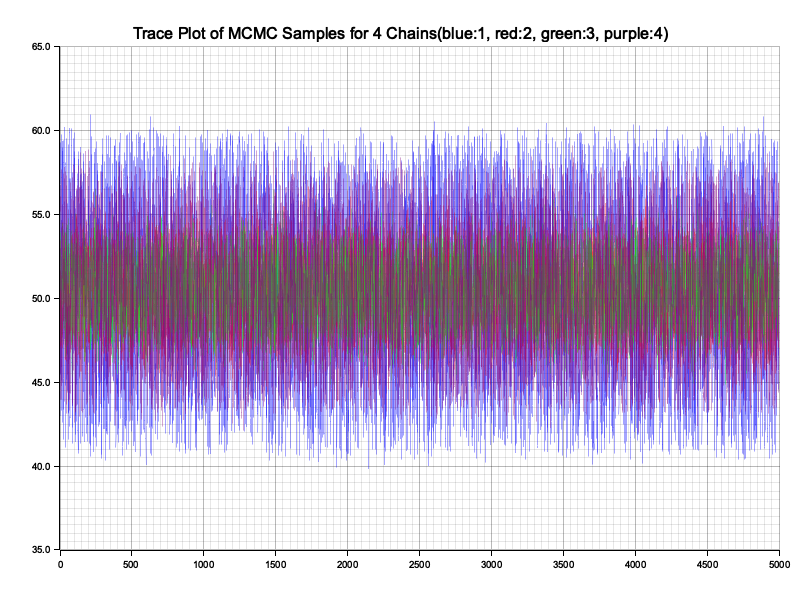
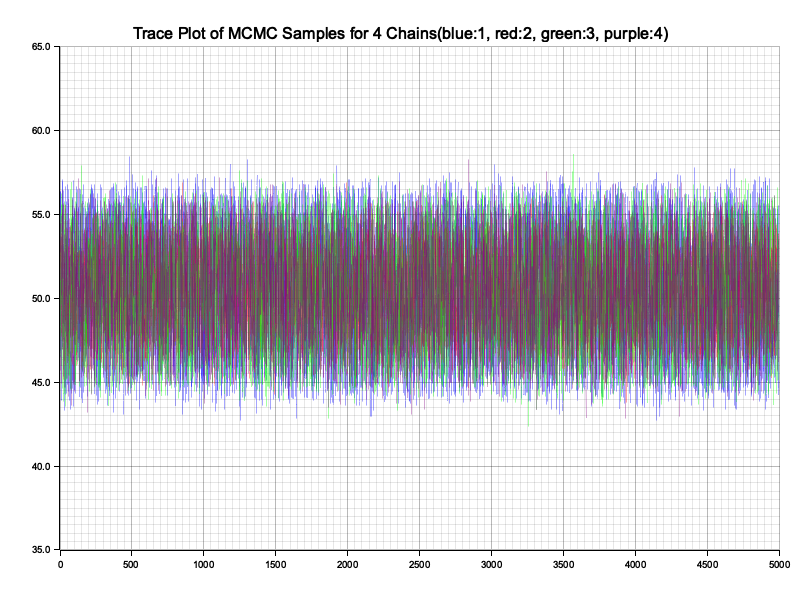
traceplotを関数化

diff --git a/bays_packages/src/modules/mcmc_visualizer.rs b/bays_packages/src/modules/mcmc_visualizer.rs
@@ -1,73 +1,38 @@
 use plotters::prelude::*;
 
-struct mcmc_results {
-    results: Vec<mcmc_result>,
-    chains: Vec<usize>
-}
+pub fn trace_plot(chains: &Vec<Vec<f64>>, x_min: usize, x_max: usize, y_min: f64, y_max: f64) -> Result<(), Box<dyn std::error::Error>> {
+    let root = BitMapBackend::new("./plots/bays_packages/trace_plot.png", (800, 600)).into_drawing_area();
+    root.fill(&WHITE)?;
 
-struct mcmc_result {
-    iter_num: Vec<usize>,
-    generated_samples: Vec<f64>
-}
+    let mut chart = ChartBuilder::on(&root)
+        .caption("Trace Plot of MCMC Samples for 4 Chains(blue:1, red:2, green:3, purple:4)", ("sans-serif", 20))
+        .margin(20)
+        .x_label_area_size(30)
+        .y_label_area_size(40)
+        .build_cartesian_2d(x_min..x_max, y_min..y_max)?;
 
-trait VisualizeSignleResult {
-    fn new(&self);
-    fn store(Vec<usize>: &iter_num, Vec<f64>: &generated_samples);
-}
-impl Visualize for VisualizeSignleResult {
-    fn new(&self) {
-        self.mcmc_results.generated_samples = Vec::new();
-        self.mcmc_results.iter_num = Vec::new();
-    }
-    fn store(Vec<usize>: &iter_num, Vec<f64>: &generated_samples) {
-        self.mcmc_results.generated_samples.push(&generated_samples);
-        self.mcmc_results.iter_num.push(&iter_num);
-    }
-}
+    chart.configure_mesh().draw()?;
 
-pub fn visualizer() {
-    mcmc_results{}
-}
-
-#[allow(dead_code)]
-impl Visualize for mcmc_results {
-    fn new(&self) {
-        self.results.iter().new();
-    }
-    fn store(usize: &iter_num, f64: &generated_sample){
-        self.store(&iter_num, &generated_sample);
+    // チェーンごとに異なる色でトレースプロットを描画
+    // let colors = [full_palette::BLUE, full_palette::RED, full_palette::GREEN, full_palette::PURPLE];
+    // チェーンごとの色を透明度付きで設定
+    let colors = [
+        RGBAColor(0, 0, 255, 0.2),    // 半透明の青
+        RGBAColor(255, 0, 0, 0.2),    // 半透明の赤
+        RGBAColor(0, 255, 0, 0.2),    // 半透明の緑
+        RGBAColor(128, 0, 128, 0.2),  // 半透明の紫
+    ];
+    for (i, chain) in chains.iter().enumerate() {
+        chart.draw_series(
+                LineSeries::new(
+                    chain.iter().enumerate().map(|(j, &value)| (j, value)),
+                    &colors[i],
+                )
+        )?;
     }
 
-    // fn traceplot(){
-    //     // 画像のサイズと出力ファイルを設定
-    //     let root = BitMapBackend::new("./plots/bays_packages/traceplot.png", (640, 480)).into_drawing_area();
-    //     root.fill(&WHITE)?;
-
-    //     // グラフエリアの設定
-    //     let mut chart = ChartBuilder::on(&root)
-    //         .caption("MCMC traceplit", ("sans-serif", 50).into_font())
-    //         .margin(20)
-    //         .x_label_area_size(30)
-    //         .y_label_area_size(30)
-    //         .build_cartesian_2d(0..6, 0..60)?;
-
-    //     chart.configure_mesh().draw()?;
-
-    //     // 1つ目のデータ系列をプロット
-    //     chart.draw_series(LineSeries::new(
-    //         x.iter().zip(y1.iter()).map(|(&x, &y)| (self., y)),
-    //         &BLUE,
-    //     ))?
-    //     .label("Series 1")
-    //     .legend(|(x, y)| PathElement::new([(x, y), (x + 20, y)], &BLUE));
-
-    //     // 2つ目のデータ系列をプロット
-    //     chart.draw_series(LineSeries::new(
-    //         x.iter().zip(y2.iter()).map(|(&x, &y)| (x, y)),
-    //         &RED,
-    //     ))?
-    //     .label("Series 2")
-    //     .legend(|(x, y)| PathElement::new([(x, y), (x + 20, y)], &RED));
-
-    // }
+    // 保存処理の完了
+    root.present()?;
+    println!("Trace plot saved as 'plots/bays_packages/trace_plot.png'");
+    Ok(())
 }

diff --git a/bays_packages/src/simple_mean_bulk.rs b/bays_packages/src/simple_mean_bulk.rs
@@ -2,11 +2,11 @@
 use crate::modules::utils::*;
 use crate::modules::mcmc_tools::*;
 use crate::modules::mcmc::*;
-// use crate::modules::mcmc_visualizer::*
+use crate::modules::mcmc_visualizer::*;
 
-use plotters::prelude::*;
 use rand_distr::{Distribution, Normal, Uniform};
 use prettytable::{Table, Row, Cell};
+
 
 // simple_mean_onlineのように逐次的にデータが入ってくるオンライン処理的な実装ではなく、stanで処理するときのようにバルクで処理する実装
 pub fn run() -> Result<(), Box<dyn std::error::Error>> {
@@ -82,6 +82,7 @@ pub fn run() -> Result<(), Box<dyn std::error::Error>> {
     // 例：平均日次売上金額が95%の確率で約60.12ドルから82.45ドルの間にある
     let (lower_bound, upper_bound) = credible_interval(&all_samples);
 
+    println!("-------------------------------");
     // 推定結果
     let mut table = Table::new();
     table.add_row(Row::new(vec![
@@ -109,7 +110,7 @@ pub fn run() -> Result<(), Box<dyn std::error::Error>> {
     // テーブルを表示
     table.printstd();
 
-//    println!("   95% Credible Interval: ({:.2}, {:.2})", lower_bound, upper_bound);
+    //    println!("   95% Credible Interval: ({:.2}, {:.2})", lower_bound, upper_bound);
 
     // println!("-------------------------------");
     // println!("# 推定結果");
@@ -120,38 +121,6 @@ pub fn run() -> Result<(), Box<dyn std::error::Error>> {
 
     // ------------------------------------------------------------------------------------------------
     // トレースプロットを生成してPNGに保存
-    let root = BitMapBackend::new("./plots/bays_packages/trace_plot.png", (800, 600)).into_drawing_area();
-    root.fill(&WHITE)?;
-
-    let mut chart = ChartBuilder::on(&root)
-        .caption("Trace Plot of MCMC Samples for 4 Chains(blue:1, red:2, green:3, purple:4)", ("sans-serif", 20))
-        .margin(20)
-        .x_label_area_size(30)
-        .y_label_area_size(40)
-        .build_cartesian_2d(0..((&iterations - &burn_in) / 10), 35.0..65.0)?;
-
-    chart.configure_mesh().draw()?;
-
-    // チェーンごとに異なる色でトレースプロットを描画
-    // let colors = [full_palette::BLUE, full_palette::RED, full_palette::GREEN, full_palette::PURPLE];
-    // チェーンごとの色を透明度付きで設定
-    let colors = [
-        RGBAColor(0, 0, 255, 0.2),    // 半透明の青
-        RGBAColor(255, 0, 0, 0.2),    // 半透明の赤
-        RGBAColor(0, 255, 0, 0.2),    // 半透明の緑
-        RGBAColor(128, 0, 128, 0.2),  // 半透明の紫
-    ];
-    for (i, chain) in chains.iter().enumerate() {
-        chart.draw_series(
-                LineSeries::new(
-                    chain.iter().enumerate().map(|(j, &value)| (j, value)),
-                    &colors[i],
-                )
-        )?;
-    }
-
-    // 保存処理の完了
-    root.present()?;
-    println!("Trace plot saved as 'plots/bays_packages/trace_plot.png'");
+    trace_plot(&chains, 0, (iterations - burn_in) / 10, 35.0, 65.0);
     Ok(())
 }

diff --git a/bays_packages/src/modules/mod.rs b/bays_packages/src/modules/mod.rs
@@ -2,4 +2,4 @@ pub mod utils;
 pub mod mcmc_tools;
 pub mod mcmc_distributions;
 pub mod mcmc;
-// pub mod mcmc_visualizer;
+pub mod mcmc_visualizer;
